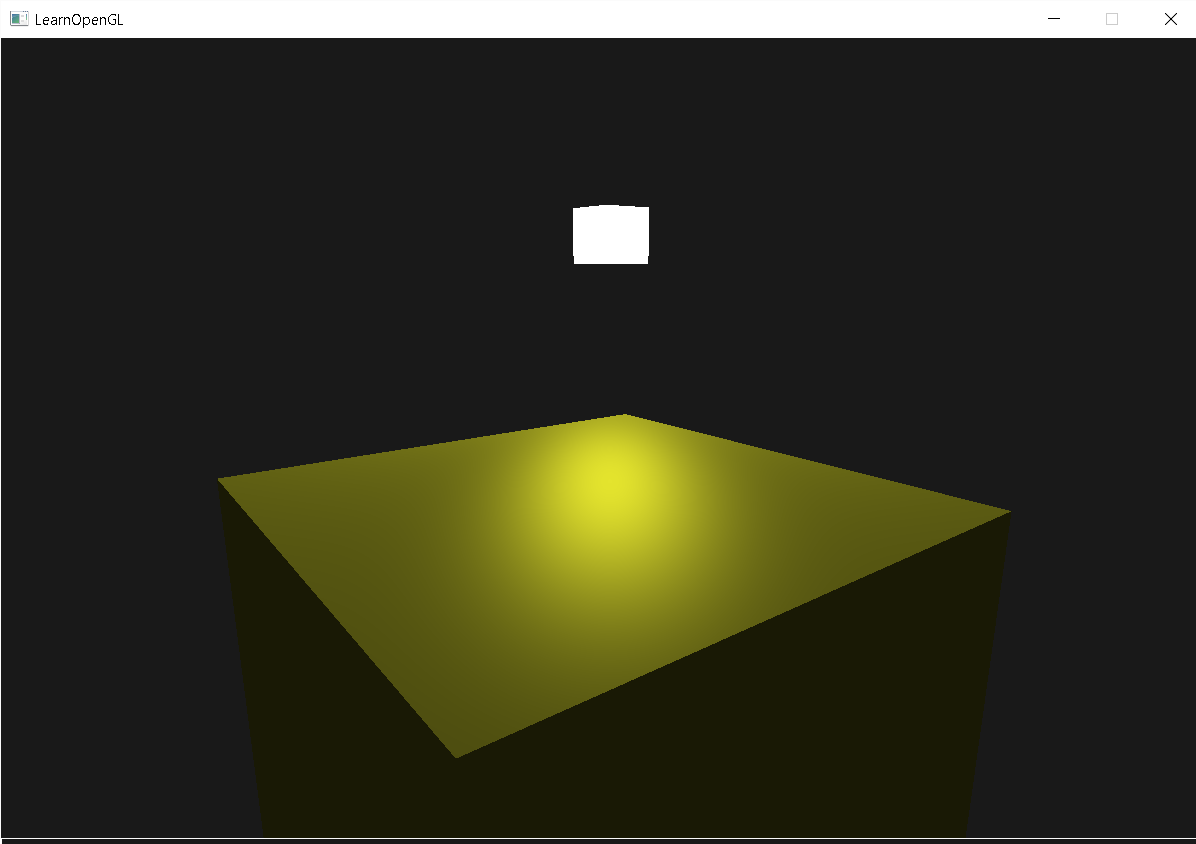
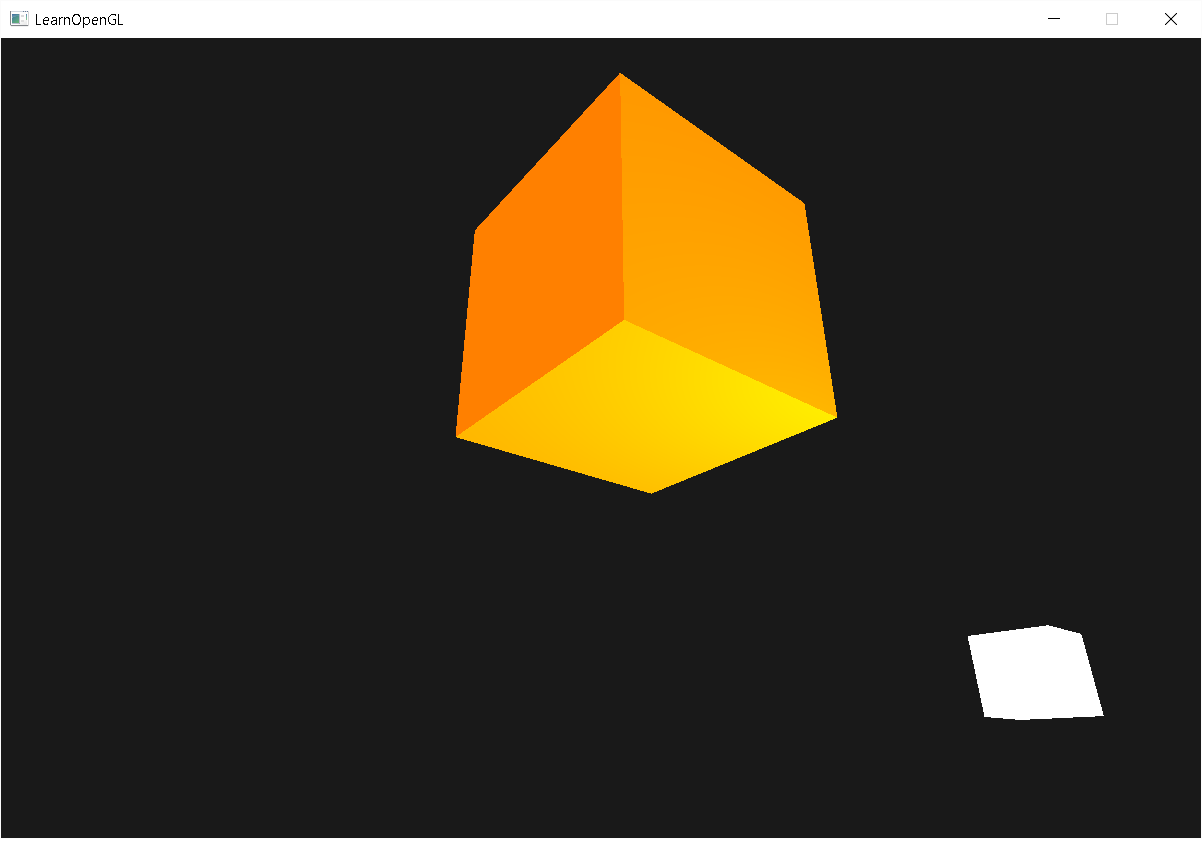
Added material struct | golden cube

diff --git a/OpenGlFirst/Test.cpp b/OpenGlFirst/Test.cpp
@@ -419,9 +419,27 @@ int main()
         GLint objectColorLoc = glGetUniformLocation(lightingShader.Program, "objectColor");
         GLint lightColorLoc  = glGetUniformLocation(lightingShader.Program, "lightColor");
         GLint lightPosLoc    = glGetUniformLocation(lightingShader.Program, "lightPos");
-		glUniform3f(objectColorLoc, 1.0f, 1.0f, 1.0f);
-        glUniform3f(lightColorLoc,  1.0f, 1.0f, 0.2f);
-		glUniform3f(lightPosLoc,    lightPos.x, lightPos.y, lightPos.z);
+		// Newly created material specs.
+		GLint matAmbientLoc  = glGetUniformLocation(lightingShader.Program, "material.ambient");
+		GLint matDiffuseLoc  = glGetUniformLocation(lightingShader.Program, "material.diffuse");
+		GLint matSpecularLoc = glGetUniformLocation(lightingShader.Program, "material.specular");
+		GLint matShineLoc    = glGetUniformLocation(lightingShader.Program, "material.shininess");
+		
+		glUniform3f(objectColorLoc, 1.f, 1.f, .0f);
+        glUniform3f(lightColorLoc,  1.f, 1.0f, 1.0f);
+		
+		glUniform3f(matAmbientLoc,  1.f, 0.5f, 0.31f);
+		glUniform3f(matDiffuseLoc,  1.f, 0.5f, 0.31f);
+		glUniform3f(matSpecularLoc,  0.5f, 0.5f, 0.5f);
+		glUniform1f(matShineLoc,  32.0f);
+	
+		// Make the lamp cube run circles around y-axis.
+		GLfloat xRotOffset, yRotOffset, zRotOffset, multiplier;
+		xRotOffset = cosf(glfwGetTime());
+		yRotOffset = cosf(glfwGetTime())*cosf(glfwGetTime()) - 0.5f;
+		zRotOffset = sinf(glfwGetTime());
+		multiplier = 3.f;
+		glUniform3f(lightPosLoc,    xRotOffset* multiplier, yRotOffset*multiplier, zRotOffset*multiplier);
 
 
         // Create camera transformations
@@ -457,7 +475,7 @@ int main()
         glUniformMatrix4fv(viewLoc, 1, GL_FALSE, glm::value_ptr(view));
         glUniformMatrix4fv(projLoc, 1, GL_FALSE, glm::value_ptr(projection));
         model = glm::mat4();
-        model = glm::translate(model, lightPos);
+		model = glm::translate(model, glm::vec3(xRotOffset* multiplier, yRotOffset*multiplier, zRotOffset*multiplier));
         model = glm::scale(model, glm::vec3(0.2f)); // Make it a smaller cube
         glUniformMatrix4fv(modelLoc, 1, GL_FALSE, glm::value_ptr(model));
         // Draw the light object (using light's vertex attributes)
